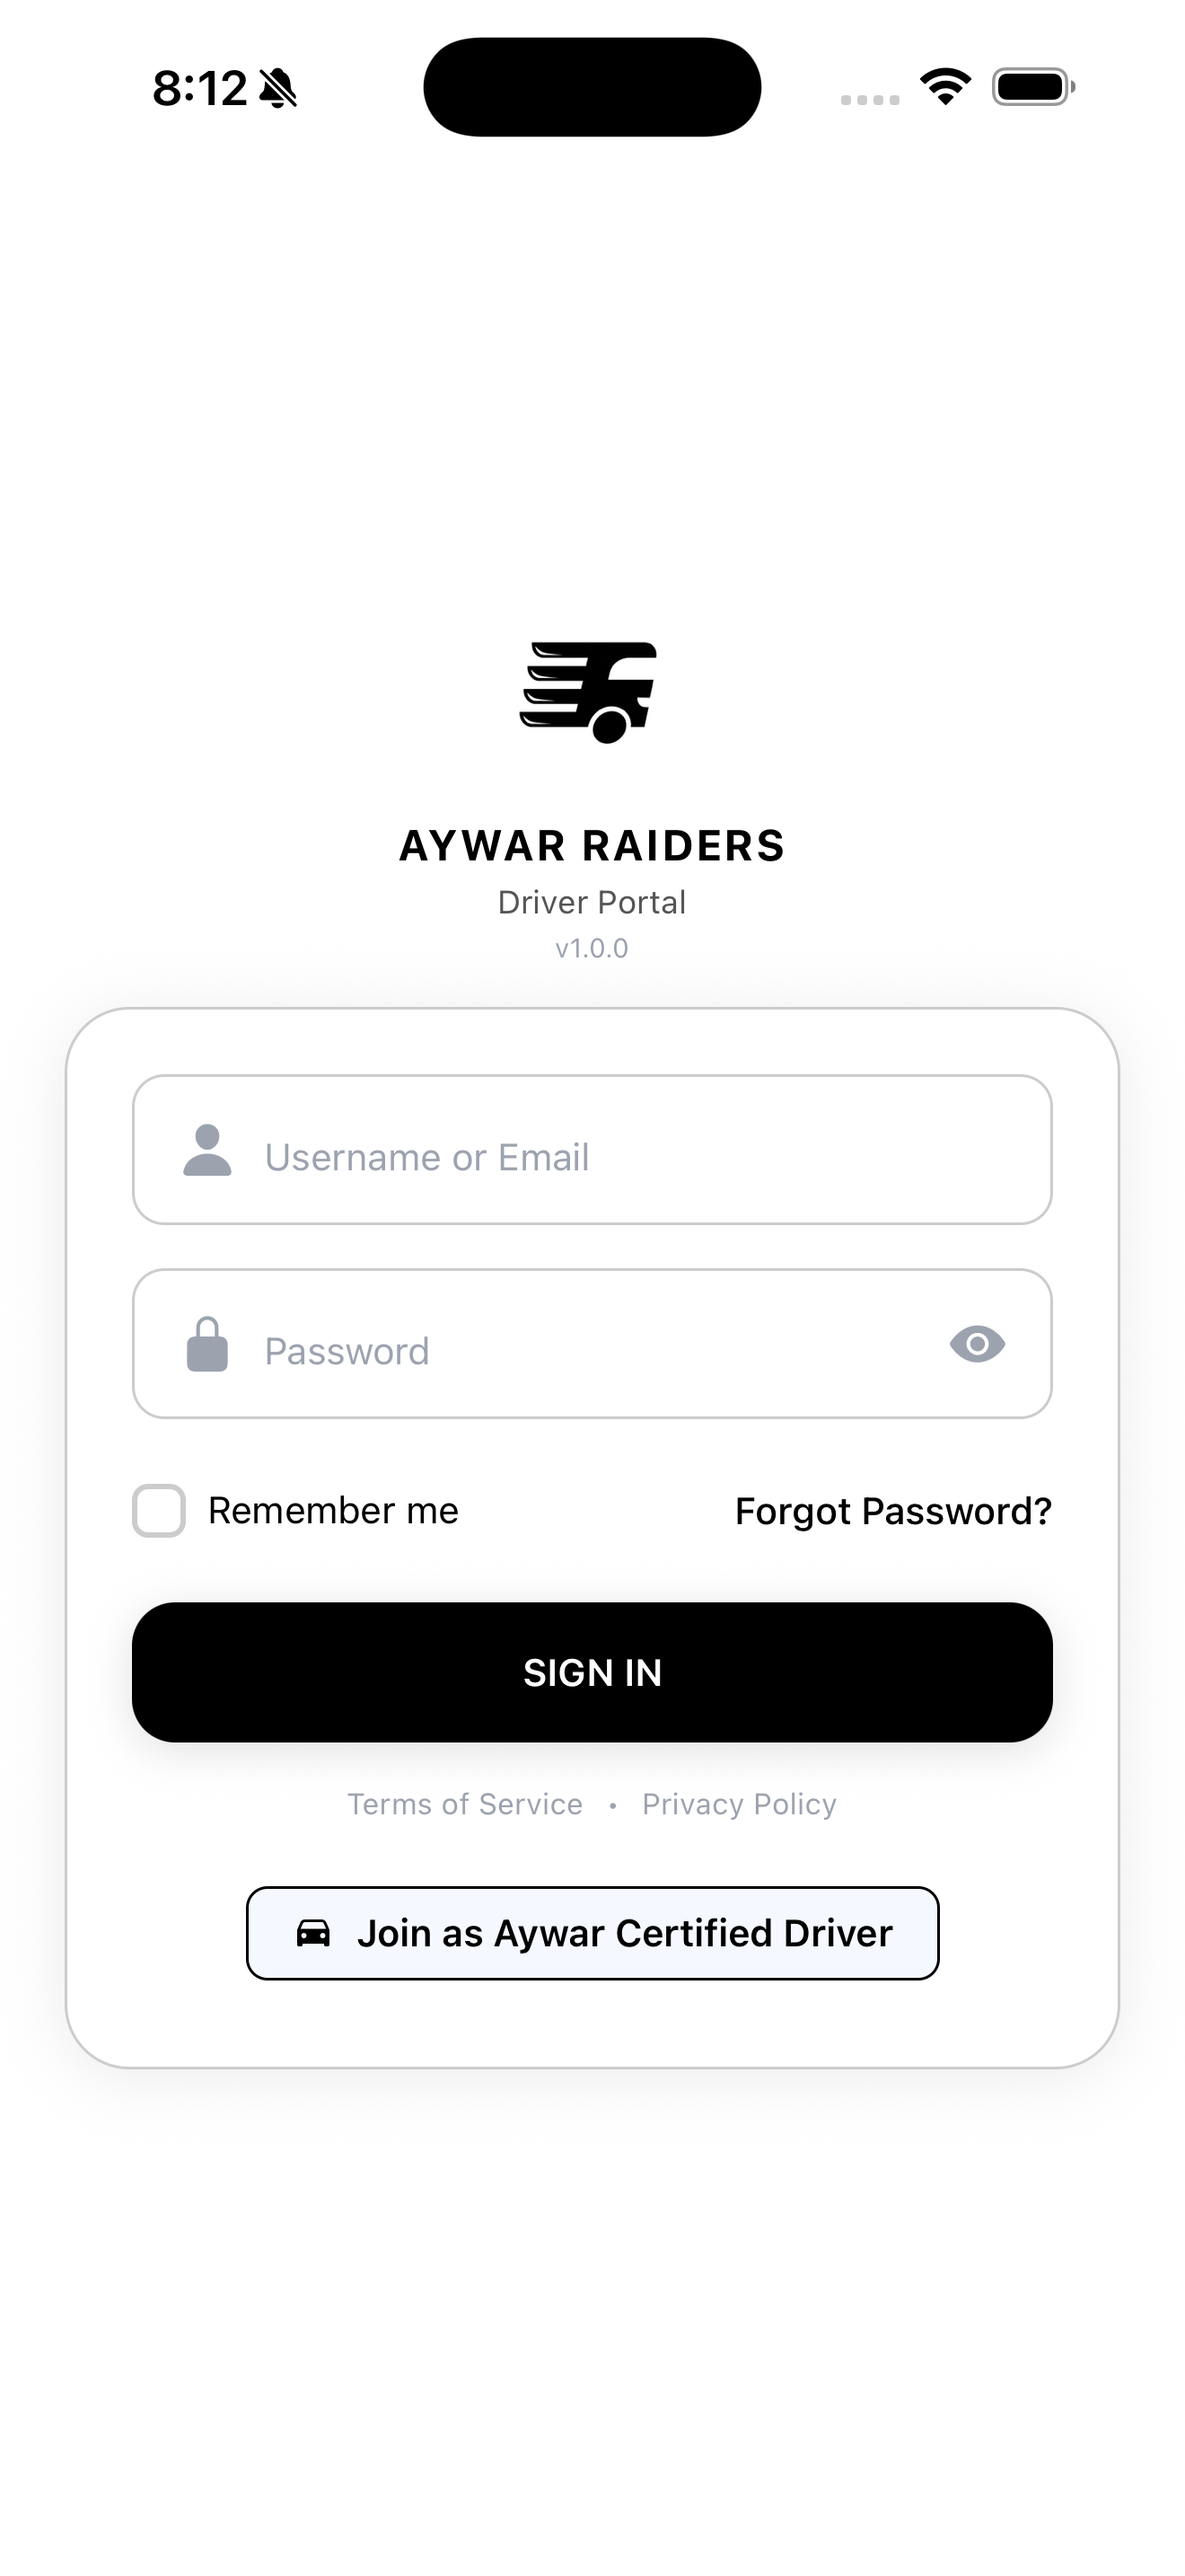
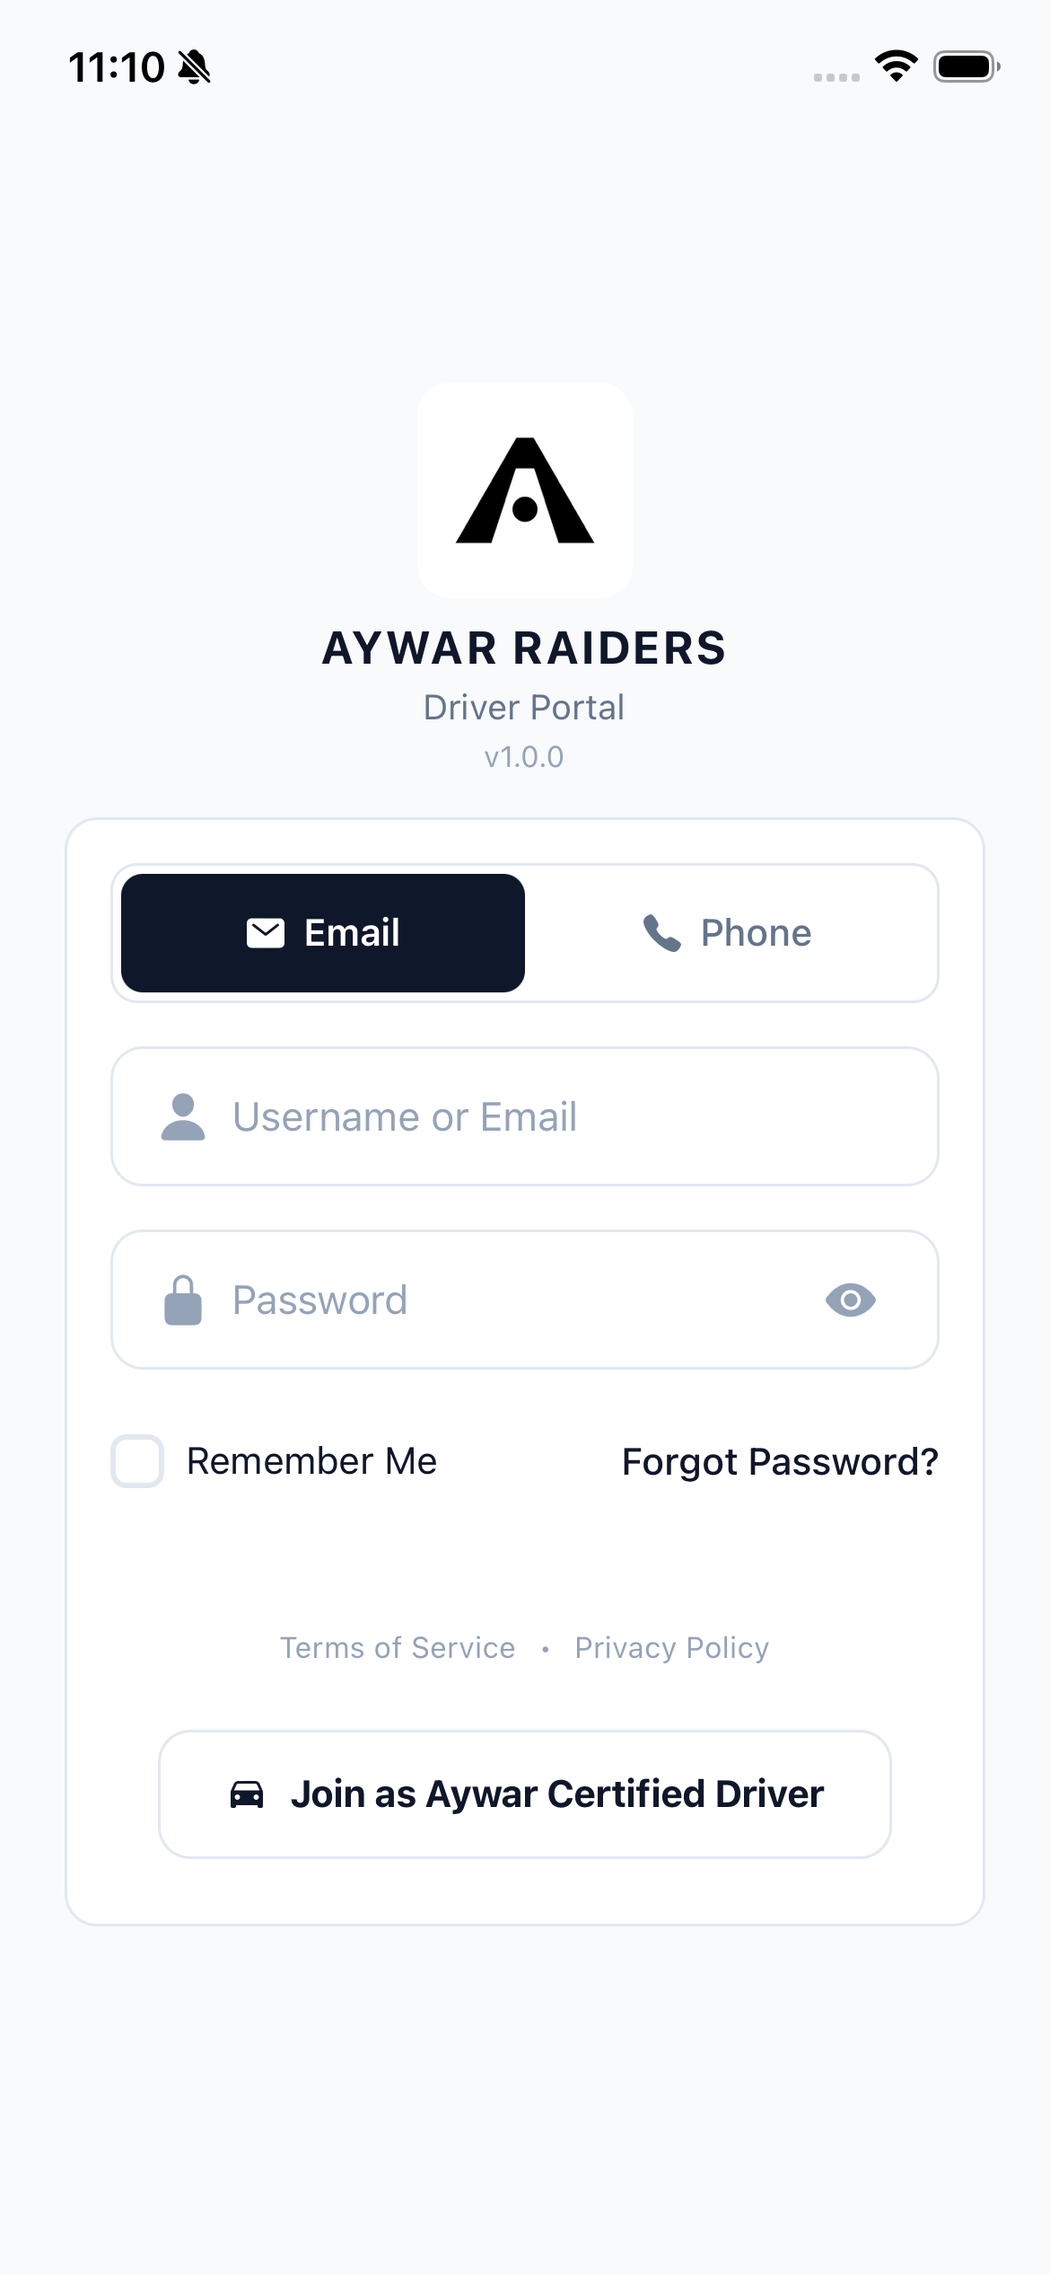
Update Ayewar Raiders screenshots and mockups

diff --git a/src/data/products.ts b/src/data/products.ts
@@ -65,6 +65,7 @@ import raiders4 from "@/assets/mockup/raiders/mockup-4.png";
 import raiders5 from "@/assets/mockup/raiders/mockup-5.png";
 import raiders6 from "@/assets/mockup/raiders/mockup-6.png";
 import raiders7 from "@/assets/mockup/raiders/mockup-7.png";
+import raiders8 from "@/assets/mockup/raiders/mockup-8.png";
 
 // Students mockups (6)
 import students1 from "@/assets/mockup/students/mockup-1.png";
@@ -412,7 +413,8 @@ export const products: Product[] = [
     slug: "raiders",
     mockupColor: "#7C3AED",
     icon: raidersIcon,
-    mockups: [raiders1, raiders2, raiders3, raiders4, raiders5, raiders6, raiders7],
+    mockups: [raiders1, raiders2, raiders8, raiders4, raiders3, raiders5, raiders6, raiders7],
+    cardMockups: [raiders4, raiders5],
     name: "Ayewar Raiders",
     nameKu: "Ayewar Raiders",
     category: "پلاتفۆرمی هات و چۆ بۆ شۆفێری پاسەکانی کوردستان",
